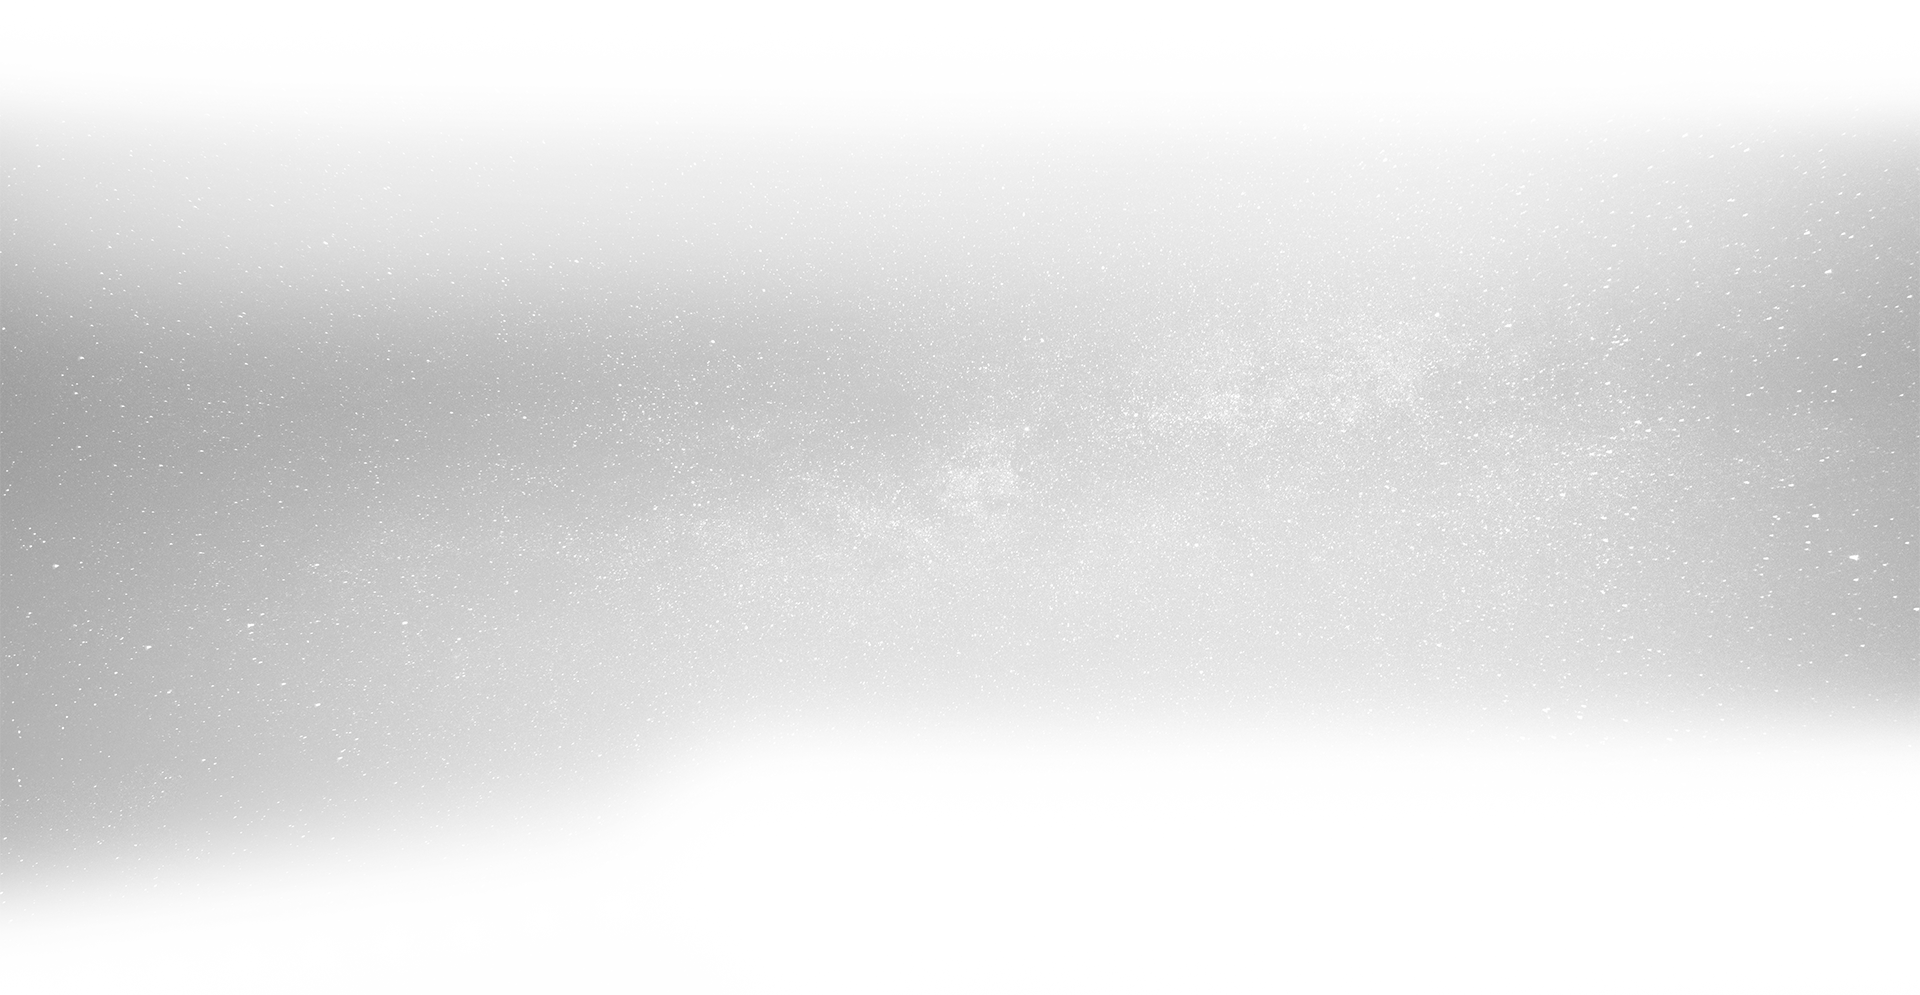
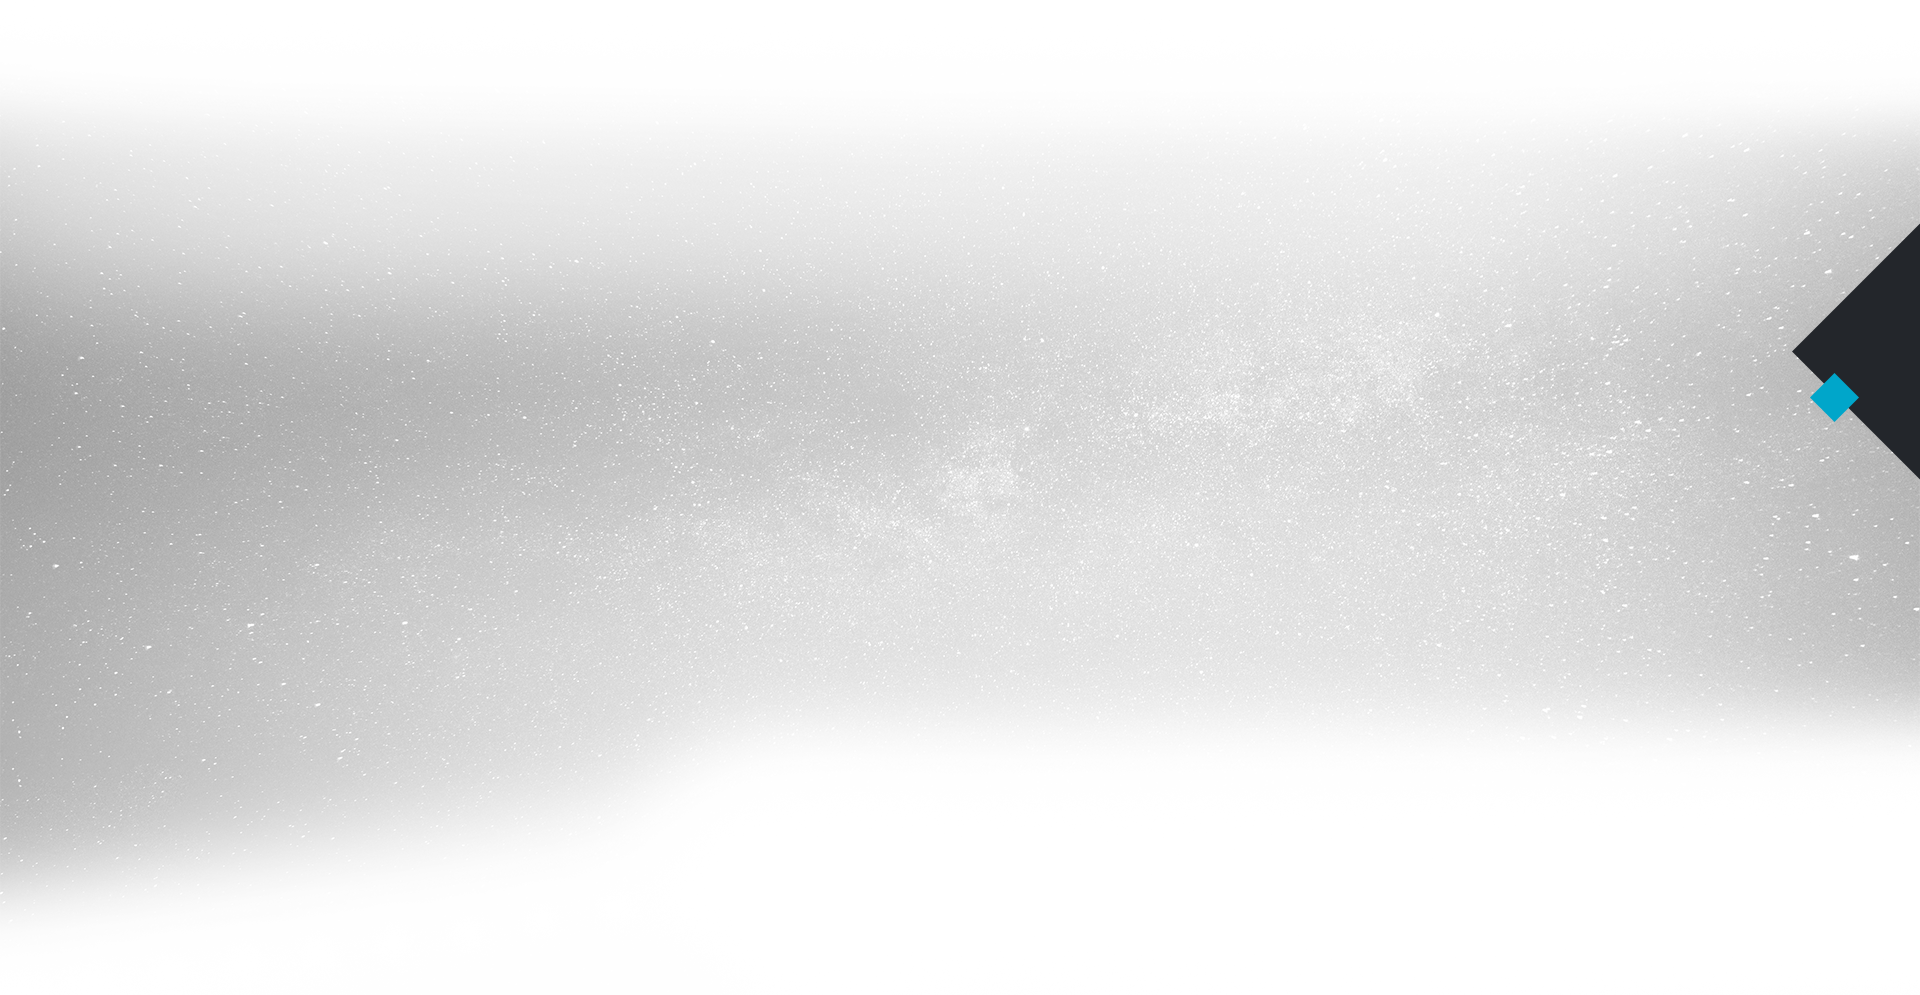
modified css for hero section and added decoration background

Changed region(s): [[0.9375, 0.2181, 1.0, 0.4673]]

diff --git a/css/main.css b/css/main.css
@@ -140,32 +140,38 @@ body {
 
 .section-hero {
     position: relative;
+    height: 88vh;
     background-image: url(../css/img/hero.png);
     background-size: cover;
-    background-repeat: no-repeat;
-    width: 100%;
-    height: 0;
-    padding-top: 45%;
-    /* (img-height / img-width * container-width) */
-    z-index: -2;
+    background-position: top;
 }
 
 .hero-box {
-    position: absolute;
-    top: 31rem;
-    left: 34rem;
-}
-
-.vertical-line {
-    color: #1fffff;
-    font-weight: lighter;
+    display: flex;
+    flex-direction: column;
+    padding: 32rem 0 0 34rem;
 }
 
 .hero-description {
     font-size: 2rem;
     line-height: 2.6rem;
-    margin-bottom: 3.2rem;
+    margin: 3.2rem 0;
     color: #fff;
+}
+
+.btn-tell-me {
+    align-self: flex-start;
+}
+
+.decoration-background {
+    position: absolute;
+    width: 100%;
+    height: 99.5rem;
+    background-image: url(../img/astro-astrology-2.png);
+    background-size: 100% 100%;
+    background-repeat: no-repeat;
+    background-position: bottom;
+    top:51rem;
 }
 
 
@@ -246,9 +252,9 @@ body {
 .services-part-two {
     display: flex;
     justify-content: center;
-    background-image: url(../img/astro-astrology.png);
+    background-image:url(../img/astro-astrology.png);
     background-position: center;
-    background-size: cover;
+    background-size: contain;
     background-repeat: no-repeat;
     width: 100%;
     margin-top: 33rem;

diff --git a/index.html b/index.html
@@ -38,8 +38,9 @@
             <p class="hero-description">Lorem Ipsum is simply dummy text of the printing and typesetting industry.
                 Lorem<br>
                 Ipsum has been the industry's standard dummy text ever since the 1500s.</p>
-            <a href="#" class="btn">Tell me more</a>
+            <a href="#" class="btn btn-tell-me">Tell me more</a>
         </div>
+        <div class="decoration-background"></div>
     </section>
     <section class="services" id="services">
         <div class="services-part-one">
@@ -150,6 +151,9 @@
                 <a href="#" class="btn-all-services">All Services</a>
             </div>
         </div>
+    </section>
+    <section class="references">
+
     </section>
 
 </html>
